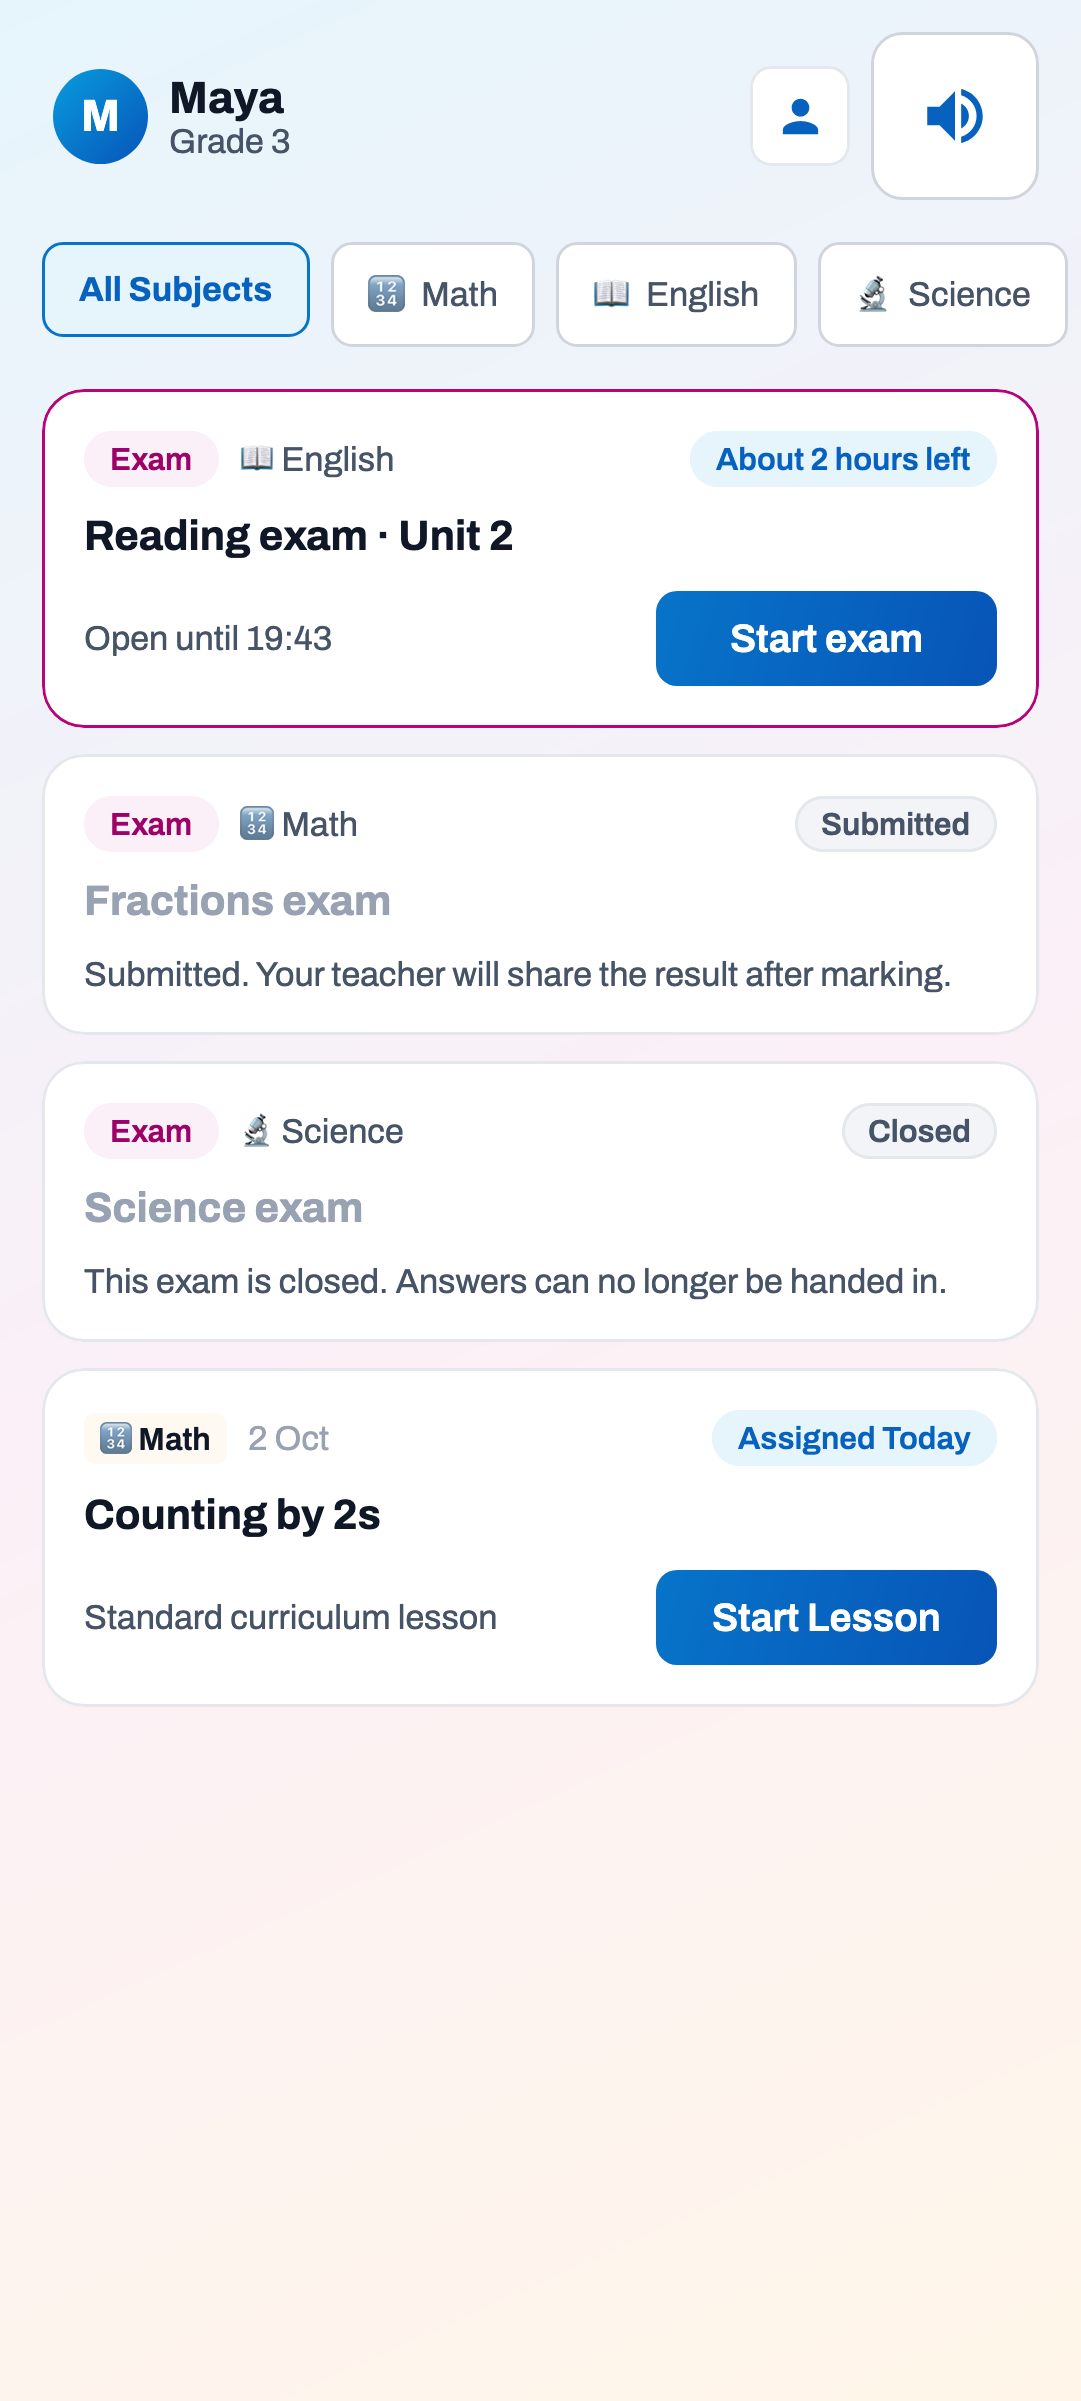
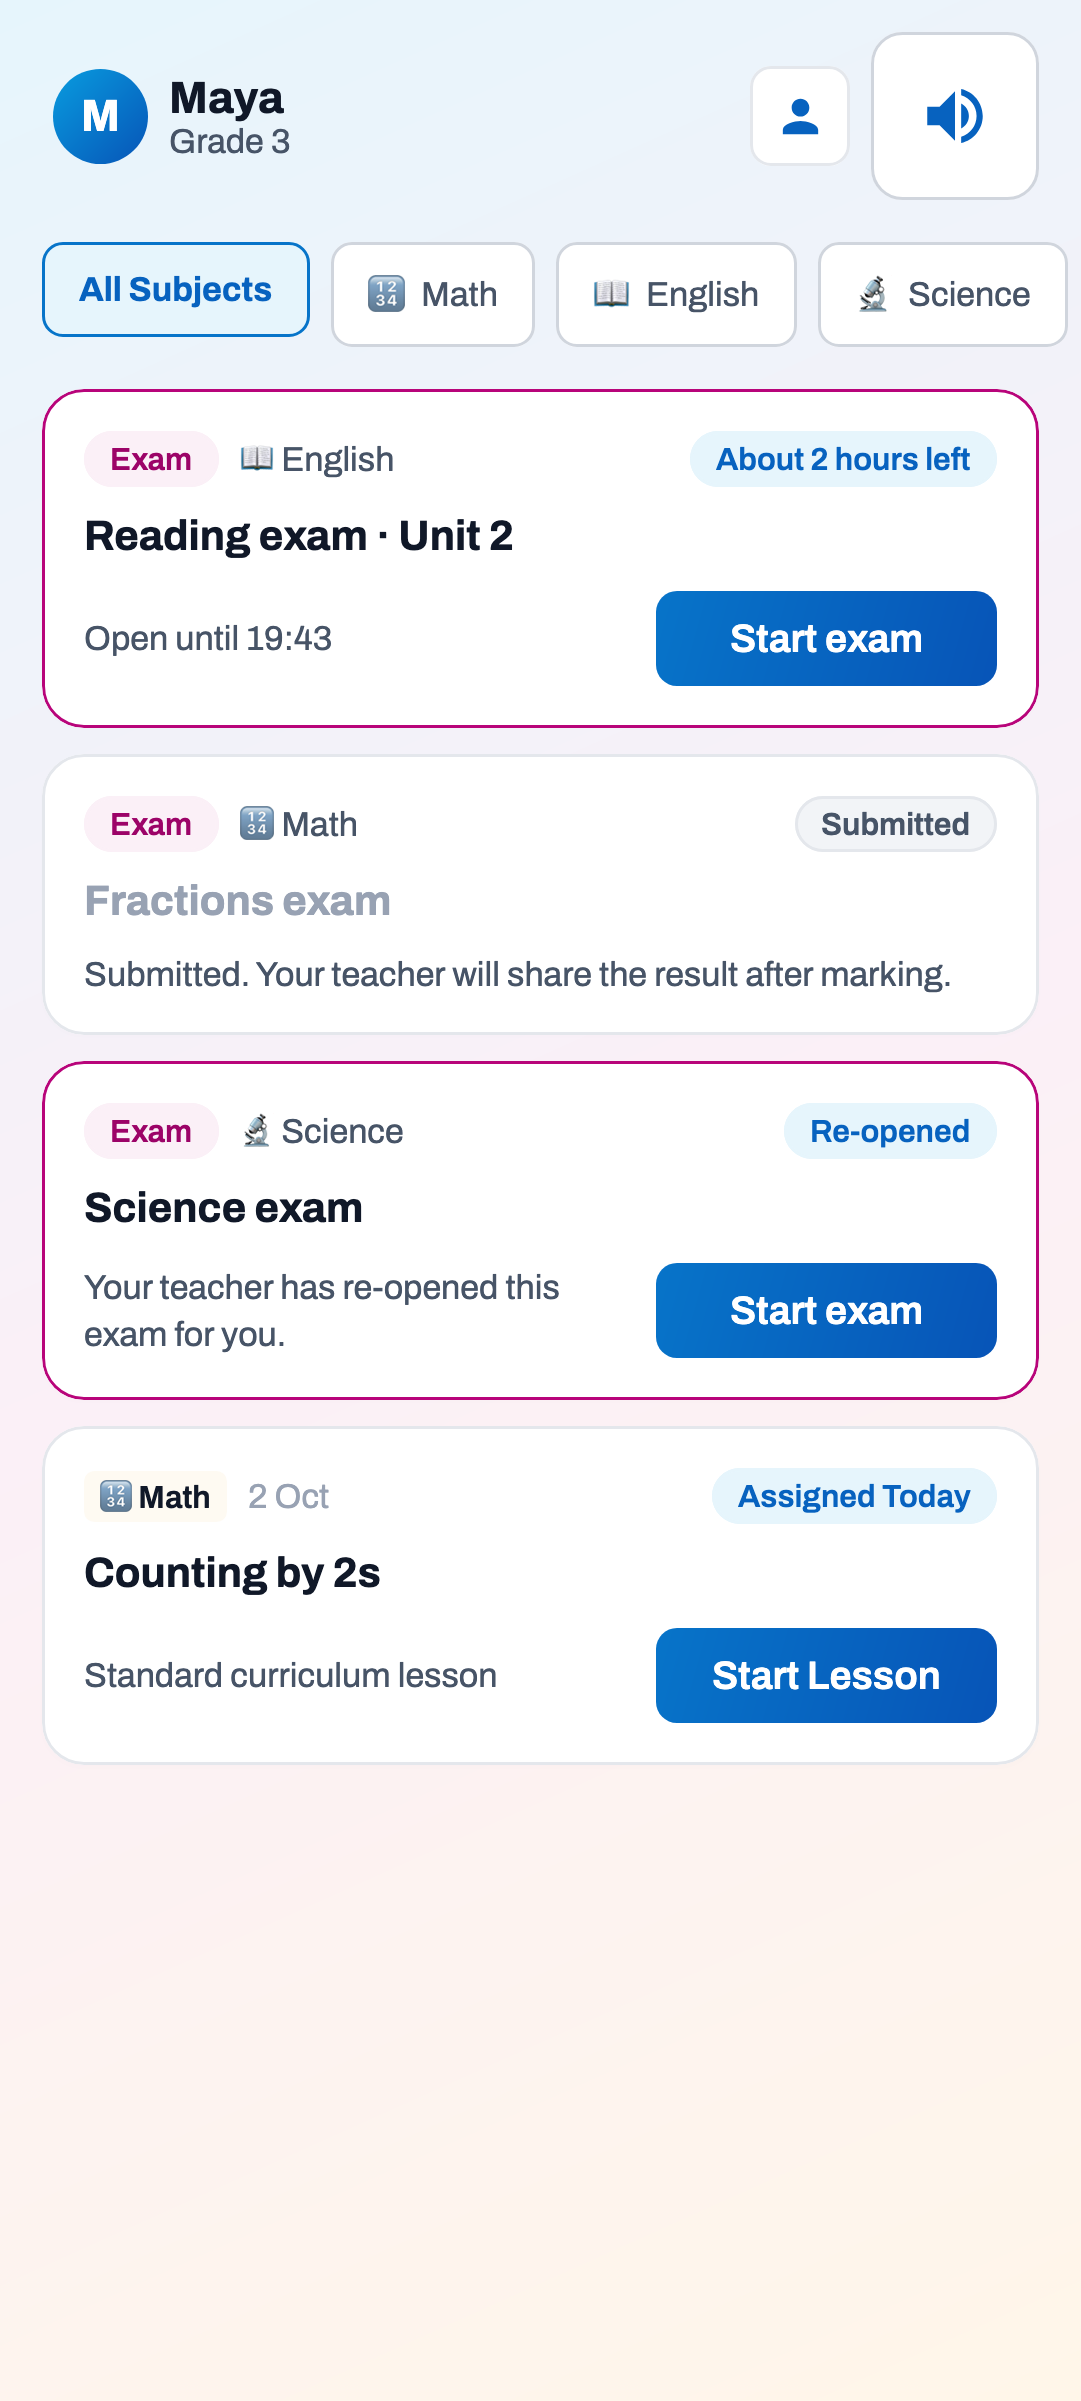
fix(app): an exam the teacher re-opened opens on the student's home
The server lists an exam only while this student may sit it, but `examWindow` carries the exam's own times, not the
extra sitting a teacher gives one student. The card compared the device clock with that closing time, so a student
who was absent or cut off saw "Closed" on a paper the server would still accept.

An island that arrives with its window already shut is now `REOPENED`: open, with "Your teacher has re-opened this
exam for you" and no closing time (the extra sitting's end is not in the contract). The home page reloads whenever
the app returns to the front, so the card follows the server.

Changed region(s): [[0.0305, 0.4373, 0.9769, 0.7185]]

diff --git a/shared/src/desktopTest/kotlin/quest/feature/journey/ExamModeTest.kt b/shared/src/desktopTest/kotlin/quest/feature/journey/ExamModeTest.kt
@@ -389,10 +389,32 @@ class ExamModeTest {
         assertEquals(ExamStatus.NOT_OPEN, examStatus(island(), opens - 1))
         assertEquals(ExamStatus.OPEN, examStatus(island(), opens))
         assertEquals(ExamStatus.OPEN, examStatus(island(), closes - 1))
-        assertEquals(ExamStatus.CLOSED, examStatus(island(), closes))
+        assertEquals(ExamStatus.CLOSED, examStatus(island(), closes, loadedAt = opens))
         // Handed in beats the clock, and no window from the server means no sitting.
         assertEquals(ExamStatus.SUBMITTED, examStatus(island(IslandState.DONE), opens + 1))
         assertEquals(ExamStatus.UNAVAILABLE, examStatus(island(window = null), opens + 1))
+    }
+
+    /**
+     * The server lists an exam only while this student may sit it, and the window it sends is the exam's own. One
+     * that arrives already past its closing time is therefore a sitting the teacher re-opened — for a student who
+     * was absent or cut off — and must open, not read "Closed".
+     */
+    @Test fun anExamThatArrivesAfterItsWindowShutWasReopenedAndOpens() = examTest {
+        val loadedAt = closes + 5 * 60_000L
+        assertEquals(ExamStatus.REOPENED, examStatus(island(), loadedAt))
+        assertEquals(ExamStatus.REOPENED, examStatus(island(), loadedAt + 3_600_000L, loadedAt), "it does not flip to Closed while the page is open")
+        val card = examCard(island(), loadedAt, TimeZone.UTC, en, emptyList(), true)
+        assertEquals(en.examReopened, card.line)
+        assertNull(card.left, "the extra sitting's end is not in the contract, so no time is claimed")
+        assertEquals(listOf<MapContract.Effect>(MapContract.Effect.OpenLesson(exam.id, 1, 0)), home(island(), loadedAt).second)
+        // A paper she already handed in every answer of stays handed in, re-opened or not.
+        assertEquals(ExamStatus.SUBMITTED, examStatus(island(IslandState.DONE), loadedAt))
+    }
+
+    /** Loaded while open, tapped after the window shut: closed, until a refresh says otherwise. */
+    @Test fun aCardLoadedWhileOpenClosesWhenTheWindowDoes() {
+        assertEquals(ExamStatus.CLOSED, examStatus(island(), closes, loadedAt = opens))
     }
 
     @Test fun theCardSaysWhenItClosesAndRoughlyHowLongIsLeft() {
@@ -416,7 +438,7 @@ class ExamModeTest {
         assertEquals("3 Oct, 09:00", examTime(noon + 21 * 3_600_000L, noon, zone, months, true))
 
         // Outside the window the card says so and offers nothing else — and a submitted one shows no result.
-        assertEquals(en.examClosed, examCard(island(), closes, zone, en, months, true).line)
+        assertEquals(en.examReopened, examCard(island(), closes, zone, en, months, true).line)
         assertEquals(en.examSubmittedNote, examCard(island(IslandState.DONE), opens, zone, en, months, true).line)
         assertNull(examCard(island(IslandState.DONE), opens, zone, en, months, true).left)
     }
@@ -443,7 +465,8 @@ class ExamModeTest {
     @Test fun theHomeCardOpensAnExamOnlyInsideItsWindow() = examTest {
         assertEquals(listOf<MapContract.Effect>(MapContract.Effect.OpenLesson(exam.id, 1, 0)), home(island(), opens).second)
         assertEquals(listOf<MapContract.Effect>(MapContract.Effect.Speak(en.examNotOpenYet)), home(island(), opens - 1).second)
-        assertEquals(listOf<MapContract.Effect>(MapContract.Effect.Speak(en.examClosed)), home(island(), closes).second)
+        // Loaded with its window already shut, the server is saying this student may still sit it (a re-opening).
+        assertEquals(listOf<MapContract.Effect>(MapContract.Effect.OpenLesson(exam.id, 1, 0)), home(island(), closes).second)
     }
 
     @Test fun aSubmittedExamDoesNotOpenAgainAndSaysWhy() = examTest {

diff --git a/shared/src/commonMain/kotlin/quest/feature/map/presentation/ExamCard.kt b/shared/src/commonMain/kotlin/quest/feature/map/presentation/ExamCard.kt
@@ -13,7 +13,10 @@ import quest.feature.journey.presentation.LessonStrings
  * [UNAVAILABLE] is an exam the device knows about but has no window for — the map came from the cache — and an exam
  * is sat against the server's clock, so it stays shut until the app is online again.
  */
-enum class ExamStatus { OPEN, NOT_OPEN, CLOSED, SUBMITTED, UNAVAILABLE }
+enum class ExamStatus { OPEN, REOPENED, NOT_OPEN, CLOSED, SUBMITTED, UNAVAILABLE }
+
+/** Whether the card lets the student in. */
+val ExamStatus.canSit: Boolean get() = this == ExamStatus.OPEN || this == ExamStatus.REOPENED
 
 /** What the card shows: its [status], one formal [line] under the title, and — only while open — the time [left]. */
 data class ExamCard(val status: ExamStatus, val line: String, val left: String? = null)
@@ -22,11 +25,19 @@ data class ExamCard(val status: ExamStatus, val line: String, val left: String? 
  * The window is half-open, as the server reads it: open from `opensAt` up to but not including `closesAt`. A sitting
  * that was handed in is [ExamStatus.SUBMITTED] whatever the clock says — one sitting, no way back in.
  */
-fun examStatus(island: Island, nowMillis: Long): ExamStatus {
+/**
+ * [loadedAt] is when the server sent this island. The server puts an exam on the map only while *this* student may
+ * sit it, and `examWindow` carries the exam's own times — not the extra sitting a teacher gives one student. So an
+ * island that arrived with a window that had already shut is a paper the teacher re-opened: [ExamStatus.REOPENED],
+ * open, with no closing time the app could truthfully show. It stays that way until the home page is refreshed (it
+ * is, every time the app comes back to the front); the server's clock still decides whether an answer is accepted.
+ */
+fun examStatus(island: Island, nowMillis: Long, loadedAt: Long = nowMillis): ExamStatus {
     val window = island.examWindow
     return when {
         island.state == IslandState.DONE -> ExamStatus.SUBMITTED
         window == null -> ExamStatus.UNAVAILABLE
+        loadedAt >= window.closesAt -> ExamStatus.REOPENED
         nowMillis < window.opensAt -> ExamStatus.NOT_OPEN
         nowMillis >= window.closesAt -> ExamStatus.CLOSED
         else -> ExamStatus.OPEN
@@ -34,7 +45,7 @@ fun examStatus(island: Island, nowMillis: Long): ExamStatus {
 }
 
 fun examCard(island: Island, nowMillis: Long, zone: TimeZone, s: LessonStrings, months: List<String>, shortMonths: Boolean): ExamCard {
-    val status = examStatus(island, nowMillis)
+    val status = examStatus(island, nowMillis)   // the card is drawn for the moment it was loaded
     val window = island.examWindow
     fun time(millis: Long) = examTime(millis, nowMillis, zone, months, shortMonths)
     return when (status) {
@@ -42,6 +53,7 @@ fun examCard(island: Island, nowMillis: Long, zone: TimeZone, s: LessonStrings, 
         ExamStatus.UNAVAILABLE -> ExamCard(status, s.examNeedsConnection)
         ExamStatus.NOT_OPEN -> ExamCard(status, s.examOpensAt.replace("{time}", time(window!!.opensAt)))
         ExamStatus.CLOSED -> ExamCard(status, s.examClosed)
+        ExamStatus.REOPENED -> ExamCard(status, s.examReopened)
         ExamStatus.OPEN -> ExamCard(status, s.examOpenUntil.replace("{time}", time(window!!.closesAt)), examTimeLeft(window.closesAt - nowMillis, s))
     }
 }

diff --git a/shared/src/commonMain/kotlin/quest/feature/map/presentation/WorldMapScreen.kt b/shared/src/commonMain/kotlin/quest/feature/map/presentation/WorldMapScreen.kt
@@ -2,6 +2,8 @@ package quest.feature.map.presentation
 
 import androidx.compose.ui.platform.testTag
 import quest.ui.design.TestTags
+import androidx.lifecycle.compose.LifecycleEventEffect
+import androidx.lifecycle.Lifecycle
 import quest.ui.design.StudentAvatar
 import androidx.compose.foundation.background
 import androidx.compose.foundation.border
@@ -94,8 +96,10 @@ fun WorldMapRoute(
     val parent: ParentRepository = koinInject()
     val language by parent.language.collectAsStateWithLifecycle()
     val strings = if (featureEnabled(Flags.PARENT_PANEL_ARABIC)) Strings.forLanguage(language) else Strings.en
+    // The home page is read again every time the app comes back to the front: an exam the teacher re-opened, or one
+    // whose window shut while the app was away, shows as it is now rather than as it was when the page was first drawn.
+    LifecycleEventEffect(Lifecycle.Event.ON_RESUME) { vm.dispatch(Intent.Load) }
     LaunchedEffect(vm) {
-        vm.dispatch(Intent.Load)
         vm.effects.collect { e ->
             when (e) {
                 is Effect.Speak -> speaker.speak(e.text)
@@ -468,7 +472,7 @@ private fun FormalCourseworkCard(
 private fun ExamCourseworkCard(island: Island, card: ExamCard, strings: Strings, onOpen: () -> Unit) {
     val ls = if (strings.isRtl) LessonStrings.ar else LessonStrings.en
     val meta = SubjectMeta.of(island.subject)
-    val open = card.status == ExamStatus.OPEN
+    val open = card.status.canSit
     DashboardCard(
         modifier = Modifier.semantics(mergeDescendants = true) {},
         onClick = if (open) onOpen else null,
@@ -483,6 +487,7 @@ private fun ExamCourseworkCard(island: Island, card: ExamCard, strings: Strings,
                 }
                 when (card.status) {
                     ExamStatus.OPEN -> card.left?.let { DashboardPill(text = it, variant = DashboardPillVariant.INFO) }
+                    ExamStatus.REOPENED -> DashboardPill(text = ls.examReopenedShort, variant = DashboardPillVariant.INFO)
                     ExamStatus.SUBMITTED -> DashboardPill(text = ls.examSubmittedShort, variant = DashboardPillVariant.NEUTRAL)
                     ExamStatus.NOT_OPEN -> DashboardPill(text = ls.examNotOpenShort, variant = DashboardPillVariant.NEUTRAL)
                     ExamStatus.CLOSED, ExamStatus.UNAVAILABLE -> DashboardPill(text = ls.examClosedShort, variant = DashboardPillVariant.NEUTRAL)

diff --git a/shared/src/commonMain/kotlin/quest/feature/journey/presentation/LessonStrings.kt b/shared/src/commonMain/kotlin/quest/feature/journey/presentation/LessonStrings.kt
@@ -66,6 +66,8 @@ data class LessonStrings(
     val examNotOpenShort: String = "Not open yet",
     val examSubmittedNote: String = "Submitted. Your teacher will share the result after marking.",
     val examNeedsConnection: String = "Connect to the internet to open this exam.",
+    val examReopened: String = "Your teacher has re-opened this exam for you.",
+    val examReopenedShort: String = "Re-opened",
     val examOpenUntil: String = "Open until {time}",
     val examOpensAt: String = "Opens {time}",
     val examHoursLeft: String = "About {n} hours left",
@@ -130,6 +132,8 @@ data class LessonStrings(
             examNotOpenShort = "لم يُفتح بعد",
             examSubmittedNote = "تم التسليم. سيشارك معلمك النتيجة بعد التصحيح.",
             examNeedsConnection = "اتصل بالإنترنت لفتح هذا الاختبار.",
+            examReopened = "أعاد معلمك فتح هذا الاختبار لك.",
+            examReopenedShort = "أُعيد فتحه",
             examOpenUntil = "متاح حتى {time}",
             examOpensAt = "يُفتح {time}",
             examHoursLeft = "بقي نحو {n} ساعات",

diff --git a/shared/src/commonMain/kotlin/quest/feature/map/presentation/MapViewModel.kt b/shared/src/commonMain/kotlin/quest/feature/map/presentation/MapViewModel.kt
@@ -54,8 +54,8 @@ class MapViewModel(
         if (island.lessonId in current.exams) {
             // §8: an exam opens only inside its window and only once. Outside it the card says why, and so does this.
             val t = copy.strings()
-            when (examStatus(island, now())) {
-                ExamStatus.OPEN -> effect(Effect.OpenLesson(island.lessonId ?: return, 1, 0))
+            when (examStatus(island, now(), loadedAt = current.now)) {
+                ExamStatus.OPEN, ExamStatus.REOPENED -> effect(Effect.OpenLesson(island.lessonId ?: return, 1, 0))
                 ExamStatus.SUBMITTED -> effect(Effect.Speak(t.examAlreadyTaken))
                 ExamStatus.CLOSED -> effect(Effect.Speak(t.examClosed))
                 ExamStatus.NOT_OPEN -> effect(Effect.Speak(t.examNotOpenYet))
